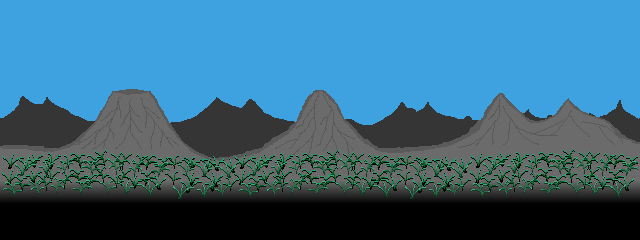
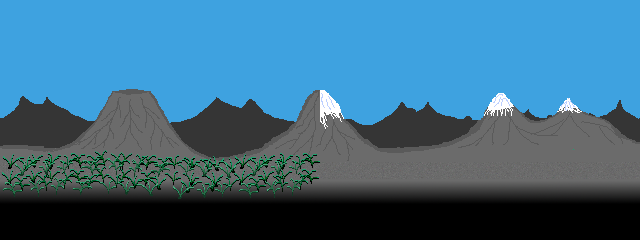
updated background art

diff --git a/tile.py b/tile.py
@@ -82,9 +82,9 @@ class Tiling(object):
             pygame.draw.line(self.surface, 'red', (x, y), (x, y2), 4)
             pygame.draw.line(self.surface, 'red', (x2, y), (x2, y2), 4)
 
-    def draw(self, platformer: Platformer) -> None:
+    def draw(self, platformer: Platformer, bg_col: int) -> None:
         # background
-        self.surface.blit(self.background, (0, 0))
+        self.surface.blit(self.background, (0, 0), (bg_col * RESOLUTION_X, 0, RESOLUTION_X, RESOLUTION_Y))
 
         # foreground
         platformer.platforms.sort(key=lambda plat: plat.y)

diff --git a/main.py b/main.py
@@ -104,7 +104,7 @@ def main():
             plat.actors[1].pos_y += RESOLUTION_Y // WORLD_SCALE
 
         buffer.fill('black')
-        render.draw(plat)
+        render.draw(plat, 0)
         screen.blit(pygame.transform.scale_by(buffer, ui_scale_factor), (0, 0))
         pygame.display.flip()
 
